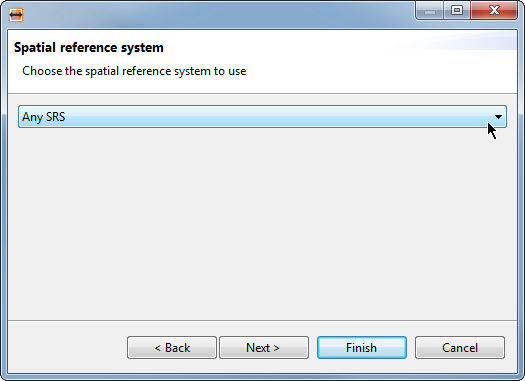
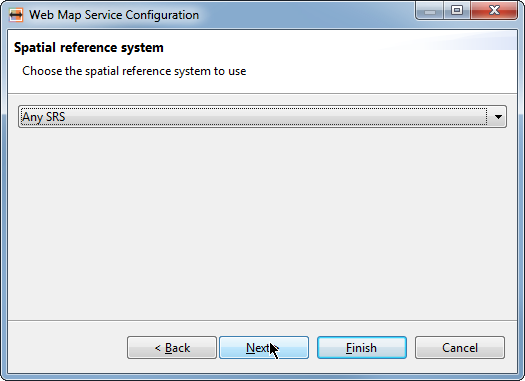
Map related UX improvements on review

diff --git a/ext/styledmap/eu.esdihumboldt.hale.doc.user.views.styledmap/html/customtile_detail.html b/ext/styledmap/eu.esdihumboldt.hale.doc.user.views.styledmap/html/customtile_detail.html
@@ -7,96 +7,94 @@
 <body>
 	<h1>Custom Tile Server Configuration</h1>
 	<p>
-		The <i>Custom Tile Maps</i> provides functionality to add map that uses web tiling scheme.
+		By configuring custom tile map servers, you can use any map based on
+		the web tiling scheme in <i>HALE</i>'s map view.
 	</p>
 	<p>
-		Here is the explanation of how to add, configure and remove <i>Custom Tile</i> 
-		map in <i>Hale</i> studio. To work with <i>Custom Tile</i> maps, first open Map perspective 
-		using Open Perspective tool menu reside in the right corner of the studio.
-    </p>
-    
-    <div>
-		<img src="../images/map_perspective_toolbar.png"
-			title="Map perspective tool menu" class="fit">
-		<img src="../images/map_perspective_open.png"
-			title="Map perspective tool menu" class="fit" style="margin-left:20px" >
-	</div>
-    
-    <p>
-		Custom tile map is a default map in <i>HALE</i>. By default you will see,
-		<i>Stamen Terrain</i> map [Map tiles by Stamen Design, under CC BY 3.0. 
-		Data by OpenStreetMap, under CC BY SA.]
-    </p>
-    
-    <div>
-		<img src="../images/custom_default.png"
-			title="Custom Tile map(Stamen Terrain) as a default in HALE" class="fit">
-		<img src="../images/custom_default_menu.png"
-			title="Stamen Terrain in view menu of map" class="fit" style="margin-left:20px" >
-	</div>
- 
-    
-    <p>
-    	To add the <i>Custom Tile</i> maps in to Map perspective, click on the <i>View Menu</i> 
-    	button and then heads to <i>Custom Tile Maps</i>&#8594;<i>Add</i>. 
+		To work with <i>Custom Tile</i> maps, first open the Map view, go to
+		the Window menu, select <i>Show View</i> and pick <i>Map</i>.
 	</p>
-	
+
+	<div>
+		<img src="../images/map_perspective_toolbar.png"
+			title="Map perspective tool menu" class="fit"> <img
+			src="../images/map_perspective_open.png"
+			title="Map perspective tool menu" class="fit"
+			style="margin-left: 20px">
+	</div>
+
+	<p>By default, hale studio uses the Stamen Terrain map in the Map
+		view. The Stamen Terrain map is created by Stamen Design and provided
+		under CC BY 3.0. It contains data by OpenStreetMap, licensed under CC
+		BY SA.</p>
+
+	<div>
+		<img src="../images/custom_default.png"
+			title="Custom Tile map(Stamen Terrain) as a default in HALE"
+			class="fit"> <img src="../images/custom_default_menu.png"
+			title="Stamen Terrain in view menu of map" class="fit"
+			style="margin-left: 20px">
+	</div>
+
+
+	<p>
+		To add the <i>Custom Tile</i> map in to Map view, click on the <i>View
+			Menu</i> button and then head to <i>Custom Tile Maps</i>&#8594;<i>Add</i>.
+	</p>
+
 	<div>
 		<img src="../images/custom_add.png"
 			title="Add Custom Tile map to Map perspective" class="fit">
 	</div>
-	
-	
+
+
+	<p>Click on the Add button, then provide a unique name for the
+		service and enter the URL pattern.</p>
 	<p>
-		By clicking on <i>Add</i> button, a dialog will be appeared, which asks 
-		for the <i>Name</i> and <i>URL Pattern</i>. You have to insert a unique 
-		name and URL pattern from where tiles will be fetched. 
-	</p>
-	<p>
-		Please note, here name must be unique from any other <i>Custom Tile</i> 
-		map configurations and URL pattern must include {z}, {x} and {y} 
-		literals which will be replaced by the HALE as Zoom level, x-coordinate 
-		and y-coordinate respectively while fetching the tiles. To go to the 
-		next configuration page, click on <i>Next</i> button in the dialog or 
-		click <i>Finish</i> directly to skip next configuration pages.
+		Please note, name should be unique in <i>Custom Tile</i> maps. The URL
+		Pattern has to include {z}, {x} and {y} literals which will be
+		replaced by the HALE as Zoom level, x-coordinate and y-coordinate
+		respectively while fetching the tiles. To go to the next configuration
+		page, click on <i>Next</i> button in the dialog or click <i>Finish</i>
+		directly to skip next configuration pages.
 	</p>
 	<div>
 		<img src="../images/custom_basic.png"
 			title="Basic configuration of Custom Tile maps" class="fit">
 	</div>
-	
+
 	<p>
-		On this page, You have to define the maximum <i>zoom level</i> for the 
-		map (default is 16) and attribution text of the map server.	Click 
+		On this page, You have to provide the maximum <i>zoom level</i> for
+		the map (default is 16) and attribution text of the map server. Click
 		<i>Finish</i> to complete the configuration.
-		
-		Please note, before using a map you should make sure that you doing so 
-		is in compliance with the respective terms of use.
 	</p>
 	<div>
 		<img src="../images/custom_extension.png"
-			title="Zoom level and Attribuition configuration of Custom Tile maps" class="fit">
+			title="Zoom level and Attribuition configuration of Custom Tile maps"
+			class="fit">
 	</div>
-	
-	
+
 	<p>
-		After finishing configuration, <i>Custom Tile maps</i> will be loaded to <i>Map</i>
-		perspective and also added in to the <i>view menu</i>. 
+		<b><i>Before using a map you should make sure that you doing so is in
+			compliance with the respective terms of use.</i></b>
+	</p>
+
+	<p>
+		After finishing configuration, your <i>Custom Tile</i> map is loaded
+		in to <i>Map</i> view.
 	</p>
 	<div>
 		<img src="../images/custom_view.png"
 			title="Custom Tile map loaded in to Map perspective" class="fit">
 	</div>
-	
-	<p>
-		You can again reconfigure the map added by you, by clicking on the name you
-		configured before. It will reopen the same dialogs as per above in same order.
-		You can change the configurations in those dialogs. 
-	</p>
+
+	<p>To change the configuration for a custom tile map, click on the
+		name you set before. Change any of the settings by stepping through
+		the dialog again.</p>
 
 	<div>
-			<img src="../images/custom_configure.png"
-			title="Custom Tile reconfiguration" class="fit" >
+		<img src="../images/custom_configure.png"
+			title="Custom Tile reconfiguration" class="fit">
 	</div>
 	<br>
 </body>

diff --git a/ext/styledmap/eu.esdihumboldt.hale.doc.user.views.styledmap/html/wms_detail.html b/ext/styledmap/eu.esdihumboldt.hale.doc.user.views.styledmap/html/wms_detail.html
@@ -2,17 +2,18 @@
 <html>
 <head>
 <meta http-equiv="Content-Type" content="text/html; charset=ISO-8859-1">
-<title>Map configuration via Web Map Service(WMS)</title>
+<title>Map configuration via Web Map Service (WMS)</title>
 </head>
 <body>
 	<h1>WMS Configuration</h1>
 	<p>
-		The <i>WMS</i> provides functionality to add map using service URL. 
+		A Web Map Service (WMS) is a standard protocol for serving georeferenced 
+		map images which a map server generates using data from a GIS database. 
+		You can set up hale studio's Map view to use such a WMS. 
 	</p>
 	<p>
-		Here is the explanation of how to add, configure and remove <i>WMS</i> 
-		map in <i>Hale</i> studio. To work with WMS maps, first open Map perspective 
-		using Open Perspective tool menu reside in the right corner of the studio.
+		To work with <i>WMS</i> map, first open the Map view, go to
+		the Window menu, select <i>Show View</i> and pick <i>Map</i>.
     </p>
     
     <div>
@@ -23,8 +24,8 @@
 	</div>
     
     <p>
-    	To add the WMS maps in to Map perspective, click on the <i>View Menu</i> 
-    	button and then heads to <i>WMS maps</i>&#8594;<i>Add</i>. 
+    	To add the WMS maps in to Map view, click on the <i>View Menu</i> 
+    	and then pick <i>WMS maps</i>&#8594;<i>Add</i>. 
 	</p>
 	
 	<div>
@@ -34,9 +35,8 @@
 	
 	
 	<p>
-		By clicking on <i>Add</i> button, a dialog will be appeared, which asks 
-		for the <i>Name</i> and <i>Service URL</i>. A user have to insert a unique 
-		name and URL from where map tiles will be fetched.
+		Click on the Add button, then provide a unique name for the service and 
+		enter the Web service URL. 
 	</p>
 	<p>
 		Please note here name must be unique from any other <i>WMS</i> map configurations 
@@ -49,11 +49,10 @@
 			title="Basic configuration of WMS maps" class="fit">
 	</div>
 	<p>
-		On the next page, select <i>Spatial reference system</i> supported by the
-		<i>WMS</i>. expand the combo and select the respective <i>SRS</i>. To go to 
-		the next configuration page, click on <i>Next</i> button in the dialog or 
-		click <i>Finish</i> to skip next configuration pages and complete
-		configuration.
+		On the next page, select the <i>Spatial reference system</i> supported by the
+		<i>WMS</i> from the drop down list. To go to the next configuration page, 
+		click on <i>Next</i> button in the dialog or click <i>Finish</i> to skip 
+		next configuration pages and complete configuration.
 	</p>
 	<div>
 		<img src="../images/wms_srs.png"
@@ -61,12 +60,10 @@
 	</div>
 
 	<p>
-		On this page, select <i>Layers</i> supported by the <i>WMS</i>. Click on
-		the <i>Change</i> button to select layers of the maps. Here you can 
-		select multiple <i>layers</i> by clicking on the check box. To go to the 
-		next configuration page, click on <i>Next</i> button in the dialog or 
-		click <i>Finish</i> to skip next configuration pages and complete
-		configuration.
+		On this page, select <i>Layers</i> supported by the <i>WMS</i> that you 
+		want to display in the Map view. To go to the next configuration page, 
+		click on <i>Next</i> button in the dialog or click <i>Finish</i> to skip 
+		next configuration pages and complete configuration.
 	</p>
 	<div>
 		<img src="../images/wms_layers.png"
@@ -74,12 +71,12 @@
 	</div>
 	
 	<p>
-		On this page, configure map <i>Tiles</i>. You have to define the maximum
-		<i>zoom level</i> for the map, minimum <i>tile size(px)</i> as width or 
+		On this page, configure map <i>Tiles</i>. You have to provide the number 
+		of <i>zoom level</i> for the map, minimum <i>tile size(px)</i> as width or 
 		height and minimum <i>map size(px)</i> as width or height. Please note, 
 		you have to define values between 1 to 100 for <i>zoom levels</i>,
-		between 64 to 1024 for <i>tile size</i> and between 64 to 65,536 for <i>map 
-		size</i> otherwise you can not proceed to finish. 
+		between 64 to 1024 for <i>tile size</i> and between 64 to 65,536 for 
+		<i>map size</i> otherwise you can not proceed to finish. 
 		
 		Click <i>Finish</i> to complete the configuration.
 	</p>
@@ -90,8 +87,8 @@
 	
 	
 	<p>
-		After finishing configuration, <i>WMS maps</i> will be loaded to <i>Map</i>
-		perspective and also added in to the <i>view menu</i>. 
+		After finishing configuration, hale studio display the <i>WMS map</i> 
+		in the <i>Map</i> view. 
 	</p>
 	<div>
 		<img src="../images/wms_view.png"
@@ -99,9 +96,9 @@
 	</div>
 	
 	<p>
-		You can again reconfigure the map added by you, by clicking on the name you
-		configured before. It will reopen the same dialogs as per above in same order.
-		You can change the configurations in those dialogs. 
+		To change the configuration for a <i>WMS</i> map, click on the name 
+		you set before. Change any of the settings by stepping through the 
+		dialog again.  
 	</p>
 
 	<div>

diff --git a/ext/styledmap/de.fhg.igd.mapviewer.server.tiles/src/de/fhg/igd/mapviewer/server/tiles/wizard/CustomTileServerConfigurationWizard.java b/ext/styledmap/de.fhg.igd.mapviewer.server.tiles/src/de/fhg/igd/mapviewer/server/tiles/wizard/CustomTileServerConfigurationWizard.java
@@ -39,6 +39,7 @@ public class CustomTileServerConfigurationWizard extends Wizard {
 	 */
 	public CustomTileServerConfigurationWizard(CustomTileMapServerConfiguration configuration) {
 		this.configuration = configuration;
+		setWindowTitle("Custom Tile Map Configuration");
 	}
 
 	/**

diff --git a/ext/styledmap/de.fhg.igd.mapviewer.server.wms/src/de/fhg/igd/mapviewer/server/wms/wizard/WMSConfigurationWizard.java b/ext/styledmap/de.fhg.igd.mapviewer.server.wms/src/de/fhg/igd/mapviewer/server/wms/wizard/WMSConfigurationWizard.java
@@ -56,6 +56,7 @@ public class WMSConfigurationWizard<T extends WMSConfiguration> extends Wizard {
 		this.configuration = configuration;
 		this.allowBasicEdit = allowBasicEdit;
 		this.allowSrsEdit = allowSrsEdit;
+		setWindowTitle("Web Map Service Configuration");
 	}
 
 	/**

diff --git a/ext/styledmap/de.fhg.igd.mapviewer.server.tiles/src/de/fhg/igd/mapviewer/server/tiles/wizard/pages/CustomTileServerConfigPage.java b/ext/styledmap/de.fhg.igd.mapviewer.server.tiles/src/de/fhg/igd/mapviewer/server/tiles/wizard/pages/CustomTileServerConfigPage.java
@@ -72,6 +72,8 @@ public class CustomTileServerConfigPage extends CustomTileWizardPage
 		createComponent();
 
 		setControl(page);
+
+		update();
 	}
 
 	/**

diff --git a/ext/styledmap/de.fhg.igd.mapviewer.server.tiles/src/de/fhg/igd/mapviewer/server/tiles/wizard/pages/CustomTileServerExtensionConfigPage.java b/ext/styledmap/de.fhg.igd.mapviewer.server.tiles/src/de/fhg/igd/mapviewer/server/tiles/wizard/pages/CustomTileServerExtensionConfigPage.java
@@ -79,6 +79,7 @@ public class CustomTileServerExtensionConfigPage extends CustomTileWizardPage
 
 		setControl(page);
 
+		update();
 	}
 
 	/**
